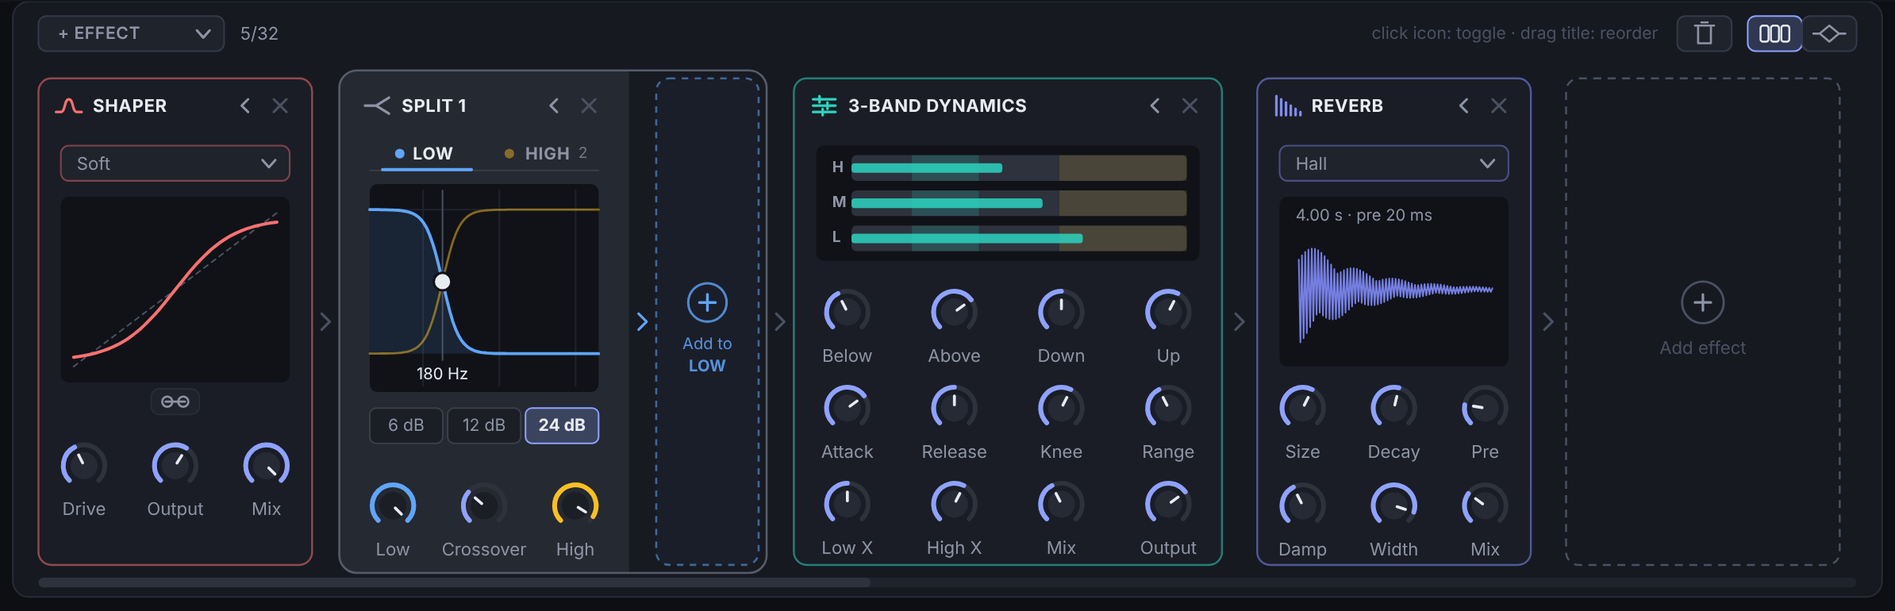
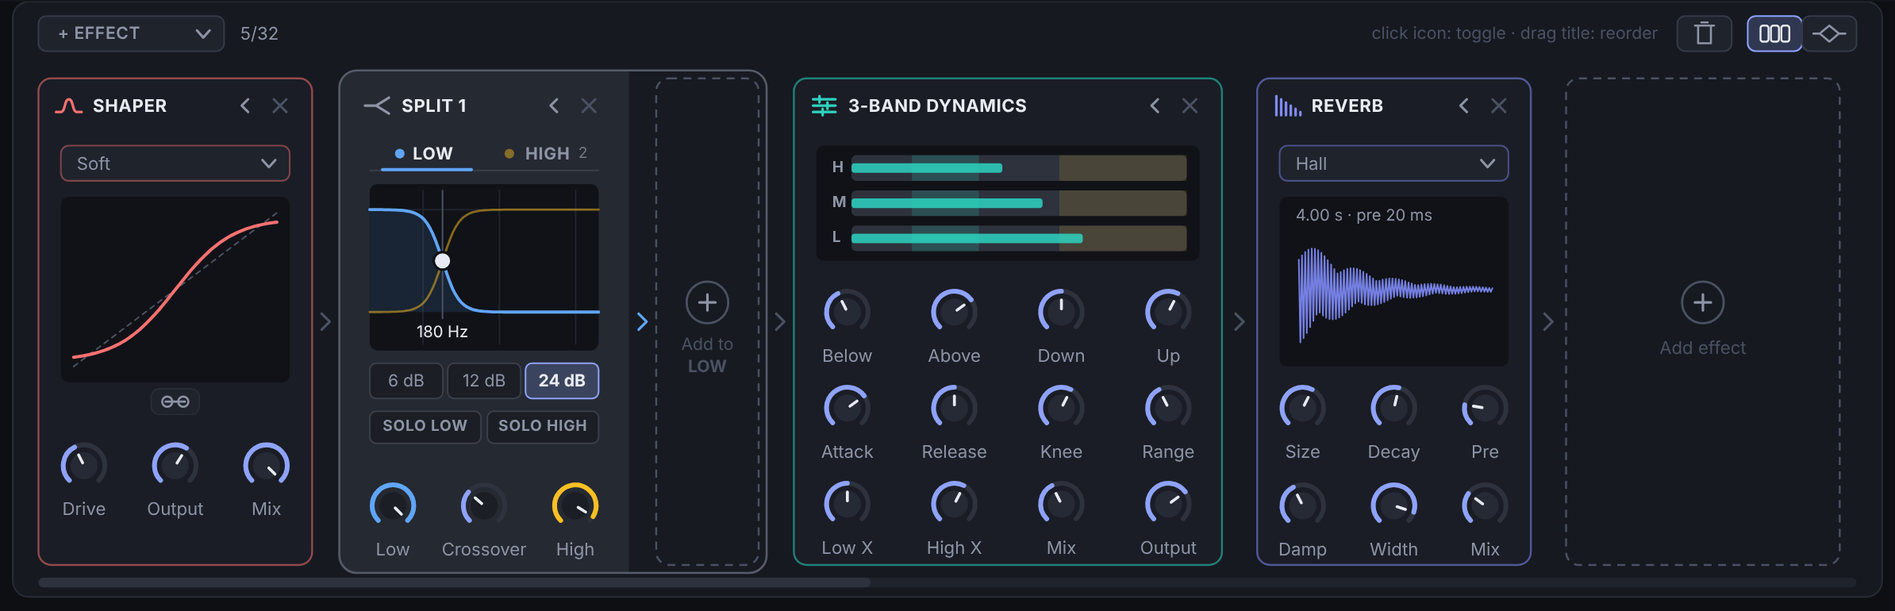
Split container drafts: solo buttons, a shared split card, a neutral placeholder
Add SOLO LOW | SOLO HIGH under the slope, with a shorter crossover
display to make room, and an S on a soloed band's tab. Show the same
controls as one card in the graph view when a split or its join is
picked, replacing PR #37's split and join cards. Draw the add
placeholder in the add-effect card's neutral grey.

Claude-Session: https://claude.ai/code/session_012YakMWtkYBtijGb8HJ8dkx

Changed region(s): [[0.1859, 0.3429, 0.4028, 0.7481], [0.3409, 0.4675, 0.4028, 0.5299], [0.3719, 0.1247, 0.4028, 0.1558]]

diff --git a/docs/drafts/fx-split-chain/index.html b/docs/drafts/fx-split-chain/index.html
@@ -66,7 +66,7 @@ ul.dense li::marker { color: var(--ink-dim); }
   <header>
     <span class="eyebrow">FMVibe · FX view · UI drafts · builds on PR #37</span>
     <h1>The frequency split as a container card in the chain: <span class="lo">low</span> / <span class="hi">high</span></h1>
-    <p class="lede">In the chain view, a split from the effects graph shows as one card that holds its bands. A grey column at its left picks the band and sets the crossover and the two band levels. Beside it are the shown band's effect cards and a placeholder that adds an effect to that band. It shows the same data the graph shows, so switching between Chain and Graph keeps every split and join.</p>
+    <p class="lede">In the chain view, a split from the effects graph shows as one card that holds its bands. A grey column at its left picks the band, sets the crossover, solos a band and sets the two band levels. Beside it are the shown band's effect cards and a placeholder that adds an effect to that band. It shows the same data the graph shows, so switching between Chain and Graph keeps every split and join. In the graph view, picking a split or its join shows the same controls as a card of their own.</p>
   </header>
 
   <section id="look">
@@ -85,16 +85,17 @@ ul.dense li::marker { color: var(--ink-dim); }
     <div class="pair">
       <figure>
         <div class="shot tight" id="fig-anatomy"></div>
-        <figcaption><b>3 · The column, top to bottom</b>, as asked, under a title row the cards' titles line up with.</figcaption>
+        <figcaption><b>3 · The column, top to bottom</b>, as asked, under a title row the cards' titles line up with. Shown with the high band soloed.</figcaption>
       </figure>
       <ol class="marks">
         <li><div><h3>Title row (added in this draft)</h3><p>The split's icon, its name (<span class="tag">SPLIT 1</span>, numbered by line order as in the graph), fold and ×. Dragging it moves the whole split, with its bands and join, along the chain. The × removes the split and leaves its bands' effects on the main line, the high band's first, as the graph does. This row isn't in the spec: the container still needs a handle, a name and a way to be removed, and here it lines up with the cards' title rows.</p></div></li>
         <li><div><h3>Band tabs: LOW | HIGH</h3><p>Drawn like the operator page's ENVELOPE / UNISON / SCOPE tabs: names on a line, the shown tab's underline in its band's color (blue for low, amber for high, the graph's band colors). A tab whose band is hidden shows its effect count, faint. The wheel switches tabs, and so does holding a dragged card over a tab.</p></div></li>
-        <li><div><h3>Crossover display</h3><p>The split card's display from the graph view: both bands' responses with the shown band's curve filled, and a handle on the crossover that drags across it. A double-click resets it to 250 Hz.</p></div></li>
+        <li><div><h3>Crossover display</h3><p>Both bands' responses with the shown band's curve filled, and a handle on the crossover that drags across it. A double-click resets it to 250 Hz. It's 104 px tall, shorter than in PR #37's split card, to make room for the solos.</p></div></li>
         <li><div><h3>Slope: 6 | 12 | 24 dB</h3><p>The split card's segmented switch. The wheel steps along it.</p></div></li>
+        <li><div><h3>SOLO LOW | SOLO HIGH</h3><p>The join's solos, one at a time: soloing one band unsolos the other, and a click on the lit one unsolos it. A soloed button fills with its band's color, and its band's tab shows an S in that color, as the graph's join node does. That way a soloed band shows even while the other band's tab is picked.</p></div></li>
         <li><div><h3>Low · Crossover · High</h3><p>Low and High are the join's band levels (0 dB down to −60 dB, silence), so the chain view has no join card. Crossover is the split's knob. All three take modulation and right-click menus like any knob, and the MODS view still lists them as Split 1 Crossover, Join 1 Low and Join 1 High.</p></div></li>
         <li><div><h3>Grey column and outline</h3><p>A neutral grey: splits and joins are already grey in the graph, because they shape the line rather than the sound. The outline's corners are 11 px against the cards' 8, so the gap between them stays even.</p></div></li>
-        <li><div><h3>Add placeholder</h3><p>A narrow dashed card in the shown band's color. A click opens the list of effects (effects only: a split can't go inside a band), and the one picked goes at the band's end.</p></div></li>
+        <li><div><h3>Add placeholder</h3><p>A narrow dashed card in the same neutral grey as the chain's add-effect card. A click opens the list of effects (effects only: a split can't go inside a band), and the one picked goes at the band's end.</p></div></li>
       </ol>
     </div>
     <div class="tablewrap">
@@ -104,7 +105,9 @@ ul.dense li::marker { color: var(--ink-dim); }
           <tr><td>Card inside</td><td><code>171 × 304</code> px, top at <code>kFxTop</code></td><td>Unchanged from the chain, so inner and outer cards share the top, the bottom and the knob rows.</td></tr>
           <tr><td>Container outline</td><td>5 px outside the cards on every side: <code>kFxTop − 5</code> to the cards' bottom <code>+ 5</code></td><td>"Very slightly larger": it fits in the 22 px gap and above the scrollbar.</td></tr>
           <tr><td>Column</td><td>One card place: 171 px of controls plus the 5 px edge</td><td>The first inner card lands on the chain's grid of card places.</td></tr>
-          <tr><td>Placeholder</td><td><code>64 × 304</code> px</td><td>Narrower than the chain's dashed card, so an empty band costs little room.</td></tr>
+          <tr><td>Crossover display</td><td><code>143 × 104</code> px</td><td>Shorter than PR #37's split card's, leaving room for the solo row.</td></tr>
+          <tr><td>Solo row</td><td>Two buttons, <code>69.5 × 20</code> px, 4 px apart, 8 px under the slope</td><td>Left for low and right for high, like the tabs and the knobs.</td></tr>
+          <tr><td>Placeholder</td><td><code>64 × 304</code> px, the add-effect card's dashed <code>kFaint</code> outline</td><td>Narrower than the chain's dashed card, so an empty band costs little room.</td></tr>
           <tr><td>Column knobs</td><td>Centers at card <code>y + 267</code>, labels at <code>+ 293</code></td><td>The same row as the bottom knobs on the compressor, delay and reverb cards.</td></tr>
           <tr><td>Grey</td><td>Fill <code>#252931</code>, outline <code>#565C69</code> (Midnight)</td><td>New palette entries per theme, close to <code>kDim</code>, the split color, at low strength.</td></tr>
         </tbody>
@@ -113,25 +116,31 @@ ul.dense li::marker { color: var(--ink-dim); }
   </section>
 
   <section id="same-data">
-    <h2>One patch, two views</h2>
+    <h2>One patch, two views, one split card</h2>
     <div class="prose">
-      <p>Here is the patch from figures 1 and 2 in the graph view, as PR #37 draws it. Every part of the container maps to something in the graph, so switching views is only a change of drawing. Nothing gets flattened and nobody is asked to confirm, in either direction.</p>
+      <p>In the graph view, picking a split's node or its join's node shows one card at the right: the container's column on its own, with the same controls drawn by the same code. PR #37's separate split and join cards go away. The join's level bars, Low and High knobs and SOLO buttons are all part of this card now.</p>
+      <p>The card's band tabs set the same saved value the chain view's tabs do: which band the display fills and which band the chain shows. Picking a node on a band's row picks that band's tab too.</p>
     </div>
     <figure>
-      <div class="shot"><img src="graph-view-pr37.png" alt="PR #37's effects graph: IN, Shaper, Split 1 with Widener and Delay on the high band and an empty low band, Join 1, 3-Band Dynamics, OUT. The Split 1 card at the right shows the crossover at 180 Hz and 24 dB." width="1184" height="381"></div>
-      <figcaption><b>4 · The same data in Graph (PR #37's <code>docs/fx-graph.png</code>).</b> Its Split 1 card holds what the container's column holds, apart from the band levels, which are on Join 1's card here.</figcaption>
+      <div class="shot" id="fig-graph-split"></div>
+      <figcaption><b>4a · Graph view, Split 1 picked.</b> The patch from figures 1 and 2, as PR #37's graph lays it out, with the split's card at the right. It's grey like the container's column and the size of a usual card.</figcaption>
+    </figure>
+    <figure>
+      <div class="shot" id="fig-graph-join"></div>
+      <figcaption><b>4b · Graph view, Join 1 picked.</b> The same card: a split and its join are one thing in the chain view, and they share one card in the graph.</figcaption>
     </figure>
     <div class="tablewrap">
       <table>
         <thead><tr><th>Chain view</th><th>Graph view</th><th>Data (PR #37)</th></tr></thead>
         <tbody>
           <tr><td>The container card</td><td>A split node, its two band rows and its join node</td><td>The split's and the sum's <code>Used</code>; wires</td></tr>
-          <tr><td>Crossover display, Slope, Crossover knob</td><td>The split's card</td><td><code>SplitParam::Low</code>, <code>SplitParam::Slope</code></td></tr>
-          <tr><td>Low and High knobs</td><td>The join's card: its level bars and Low / High knobs</td><td>The levels of the join's two input wires (dB)</td></tr>
+          <tr><td>The container's grey column</td><td>The card of the split or the join picked: the same component</td><td>All of the rows below</td></tr>
+          <tr><td>Crossover display, Slope, Crossover knob</td><td>The same controls on the card</td><td><code>SplitParam::Low</code>, <code>SplitParam::Slope</code></td></tr>
+          <tr><td>SOLO LOW | SOLO HIGH</td><td>The same buttons; the join node's S badge</td><td><code>SumParam::SoloLow</code>, <code>SoloHigh</code></td></tr>
+          <tr><td>Low and High knobs</td><td>The same knobs on the card</td><td>The levels of the join's two input wires (dB)</td></tr>
           <tr><td>The cards in a band, in order</td><td>The nodes along that band's row</td><td>Wires from the split's band port through the effects into the join</td></tr>
           <tr><td>The cards before and after the container</td><td>The main line</td><td>Wires from IN to OUT</td></tr>
-          <tr><td>The band shown (the tab)</td><td>No equivalent (both rows always show)</td><td>Editor layout: one band per split, saved with the patch like the node picked</td></tr>
-          <tr><td>No control: see the open questions</td><td>The join's SOLO buttons</td><td><code>SumParam::SoloHigh</code>, <code>SoloLow</code></td></tr>
+          <tr><td>The band shown (the tab)</td><td>The card's tab: the band its display fills</td><td>Editor layout: one band per split, saved with the patch like the node picked</td></tr>
         </tbody>
       </table>
     </div>
@@ -176,6 +185,7 @@ ul.dense li::marker { color: var(--ink-dim); }
       <li><b>Chain or Graph becomes an editor layout field,</b> like the routing panel's Graph | Matrix, instead of an engine mode. The engine always runs the graph, so the switch has nothing to do. PR #37's 3 ms duck when switching and its prompt before flattening splits both go away. PR #37 isn't merged yet, so <code>GlobalParam::FxGraph</code> can become a layout field before it ships.</li>
       <li><b>The chain order params (33400 + place) are read only when loading:</b> a state or preset from before the graph becomes a main line of wires in that order, as PR #37 already does when it switches to the graph. After that the order lives only in the wires.</li>
       <li><b>The editor's rules make both views show everything the editor can build:</b> splits only on the main line, bands as straight lines of effects, and every split with its join. Wires aren't given to hosts, so only a hand-edited preset could break those rules. Loading such a preset should repair it, or let the graph view show it and keep it out of the chain view.</li>
+      <li><b>One component for the split's controls:</b> the chain view draws it as the container's column, and the graph view as the card of a split or join node picked. PR #37's split card and join card fold into it.</li>
       <li><b>The band shown is the only new state:</b> one value per split (four splits), saved in the editor layout chunk like the node picked.</li>
     </ul>
   </section>
@@ -183,10 +193,10 @@ ul.dense li::marker { color: var(--ink-dim); }
   <section id="questions">
     <h2>Open questions</h2>
     <div class="qs">
-      <div class="q"><h3>Solo</h3><p>The spec has no solo, and the graph's join card has one. If a band is soloed from the graph and the chain view shows nothing, the other band goes silent with no visible reason.</p><p class="pick">My recommendation: <b>at least mark a soloed band's tab with an S in its color</b>, and offer Solo on the tab's right-click menu.</p></div>
       <div class="q"><h3>Container width</h3><p>The width follows the shown band (as drafted), so the row stays compact and switching tabs moves the cards after it. The alternative sizes the container for the longer band: nothing moves, but a short band leaves empty space.</p><p class="pick">My recommendation: <b>follow the shown band</b>, with the glide the row already has.</p></div>
       <div class="q"><h3>Title row</h3><p>The spec starts the column at the band tabs. This draft adds a title row above them for dragging, removing and naming the container. The alternative is a label set into the top edge of the outline.</p><p class="pick">My recommendation: <b>keep the title row</b>, because it lines up with the cards' titles.</p></div>
       <div class="q"><h3>Which band a new split shows</h3><p>LOW, the first tab, is drafted. The graph puts the high band first when it flattens.</p><p class="pick">My recommendation: <b>LOW</b>, then the band last picked, saved per split.</p></div>
+      <div class="q"><h3>Band tabs on the graph's card</h3><p>The graph shows both band rows at once, so on its card the tabs only pick which curve is filled (and which band the chain shows). They could be hidden in the graph view, at the cost of the card no longer being exactly the same.</p><p class="pick">My recommendation: <b>keep them</b>, and light the picked band's row label in the graph, so the card stays one component.</p></div>
     </div>
   </section>
 </main>
@@ -382,8 +392,54 @@ function crossoverDisplay(x, y, w, h, fc, slope, band) {
   return s;
 }
 
-// The split's container: the outline, the grey column (title, band tabs, crossover, slope, knobs), the shown band's
-// cards and the placeholder. Returns its markup and its right edge.
+// The split's controls, one card's worth: title, band tabs, crossover, slope, solos and knobs. The chain view draws
+// them as its container's grey column; the graph view as the card of a split or join node picked.
+function splitControls(px, o) {
+  const band = o.band;
+  let s = '';
+  s += icon('split', px + 10, Y0 + 10, C.dim);
+  s += T(px + 34, Y0 + 17, o.name || 'SPLIT 1', { size: 11, weight: 700, ls: 0.3 });
+  s += chevronLeft(px + CARD_W - 42, Y0 + 17, C.dim) + cross(px + CARD_W - 20, Y0 + 17, C.faint);
+  // Band tabs.
+  const ty = Y0 + 38, th = 20, tx = px + 14, tw = 143;
+  s += L(tx, ty + th - 0.5, tx + tw, ty + th - 0.5, C.greyRule, 1);
+  [['low', 'LOW'], ['high', 'HIGH']].forEach(([b, name], i) => {
+    const x0 = tx + i * tw / 2, mid = x0 + tw / 4, sel = b === band, n = (o.counts || {})[b] || 0;
+    s += Ci(mid - (b === 'low' ? 17 : 20), ty + 9, 3, { fill: BAND[b], fop: sel ? 1 : 0.45 });
+    s += T(mid + 4, ty + 9, name, { size: 10.5, weight: 700, fill: sel ? C.text : C.dim, anchor: 'middle', ls: 0.4 });
+    if (o.solo === b) { // a soloed band's tab: an S in its color, as the graph's join node shows
+      const sx = mid + (b === 'low' ? 24 : 28);
+      s += Ci(sx, ty + 9, 6, { fill: BAND[b] }) + T(sx, ty + 9.5, 'S', { size: 8.5, weight: 700, fill: '#0b0d11', anchor: 'middle' });
+    } else if (!sel && n) s += T(mid + (b === 'low' ? 22 : 26), ty + 9, String(n), { size: 9.5, fill: C.dim, op: 0.75, anchor: 'middle' });
+    if (sel) s += L(x0 + 8, ty + th - 1, x0 + tw / 2 - 8, ty + th - 1, BAND[b], 2);
+  });
+  // Crossover display (shorter than PR #37's split card's, for the solos), slope, solos, knobs.
+  s += crossoverDisplay(px + 14, Y0 + 66, tw, 104, o.fc || 180, o.slope ?? 2, band);
+  const sy = Y0 + 178, sw = (tw - 6) / 3;
+  ['6 dB', '12 dB', '24 dB'].forEach((t, i) => {
+    const sel = i === (o.slope ?? 2), x0 = tx + i * (sw + 3);
+    s += R(x0, sy, sw, 22, { r: 4, fill: sel ? C.accent : C.greyInset, fop: sel ? 0.22 : 1, stroke: sel ? C.accent : C.greyRule, sw: 1 });
+    s += T(x0 + sw / 2, sy + 11, t, { size: 10.5, fill: sel ? C.text : C.dim, weight: sel ? 700 : 400, anchor: 'middle' });
+  });
+  const oy = Y0 + 208, ow = (tw - 4) / 2;
+  [['low', 'SOLO LOW'], ['high', 'SOLO HIGH']].forEach(([b, t], i) => {
+    const on = o.solo === b, x0 = tx + i * (ow + 4);
+    s += R(x0, oy, ow, 20, { r: 4, fill: on ? BAND[b] : C.greyInset, fop: on ? 0.22 : 1, stroke: on ? BAND[b] : C.greyRule, sw: 1 });
+    s += T(x0 + ow / 2, oy + 10, t, { size: 9.5, weight: 700, fill: on ? C.text : C.dim, anchor: 'middle', ls: 0.4 });
+  });
+  const kv = db => 1 + db / 60;
+  s += knob(third(px, CARD_W, 0), Y0 + 267, 'Low', kv(o.lowDb ?? 0), BAND.low, { body: C.greyInset });
+  s += knob(third(px, CARD_W, 1), Y0 + 267, 'Crossover', Math.log((o.fc || 180) / 20) / Math.log(1000), C.accent, { body: C.greyInset });
+  s += knob(third(px, CARD_W, 2), Y0 + 267, 'High', kv(o.highDb ?? -3), BAND.high, { body: C.greyInset });
+  return s;
+}
+// The same controls as a card of their own, grey, for the graph view.
+function splitCard(px, o) {
+  return R(px, Y0, CARD_W, CARD_H, { r: 8, fill: C.grey, stroke: C.greyLine, sw: 1.3 }) + splitControls(px, o);
+}
+
+// The split's container: the outline, the grey column, the shown band's cards and the placeholder (neutral, like the
+// chain's add card). Returns its markup and its right edge.
 function splitContainer(px, o) {
   const band = o.band, col = BAND[band];
   const cards = o.cards || [];
@@ -396,66 +452,40 @@ function splitContainer(px, o) {
   s += R(ox, oy, ow, oh, { r: rad, fill: '#171A21' });
   s += P(`M${ox + rad} ${oy} H${colR} V${oy + oh} H${ox + rad} A${rad} ${rad} 0 0 1 ${ox} ${oy + oh - rad} V${oy + rad} A${rad} ${rad} 0 0 1 ${ox + rad} ${oy} Z`, { fill: C.grey });
   s += R(ox, oy, ow, oh, { r: rad, stroke: C.greyLine, sw: 1.3 });
-  // Title row.
-  s += icon('split', px + 10, Y0 + 10, C.dim);
-  s += T(px + 34, Y0 + 17, o.name || 'SPLIT 1', { size: 11, weight: 700, ls: 0.3 });
-  s += chevronLeft(px + CARD_W - 42, Y0 + 17, C.dim) + cross(px + CARD_W - 20, Y0 + 17, C.faint);
-  // Band tabs.
-  const ty = Y0 + 38, th = 20, tx = px + 14, tw = 143;
-  s += L(tx, ty + th - 0.5, tx + tw, ty + th - 0.5, C.greyRule, 1);
-  [['low', 'LOW'], ['high', 'HIGH']].forEach(([b, name], i) => {
-    const x0 = tx + i * tw / 2, mid = x0 + tw / 4, sel = b === band, n = (o.counts || {})[b] || 0;
-    const label = T(mid + 4, ty + 9, name, { size: 10.5, weight: 700, fill: sel || o.hoverTab === b ? C.text : C.dim, anchor: 'middle', ls: 0.4 });
-    s += Ci(mid - (b === 'low' ? 17 : 20), ty + 9, 3, { fill: BAND[b], fop: sel ? 1 : 0.45 });
-    s += label;
-    if (!sel && n) s += T(mid + (b === 'low' ? 22 : 26), ty + 9, String(n), { size: 9.5, fill: C.dim, op: 0.75, anchor: 'middle' });
-    if (sel) s += L(x0 + 8, ty + th - 1, x0 + tw / 2 - 8, ty + th - 1, BAND[b], 2);
-    if (o.hoverTab === b) s += R(x0 + 4, ty - 2, tw / 2 - 8, th + 2, { r: 4, fill: BAND[b], fop: 0.12 });
-  });
-  // Crossover display, slope, knobs.
-  s += crossoverDisplay(px + 14, Y0 + 66, tw, 130, o.fc || 180, o.slope ?? 2, band);
-  const sy = Y0 + 206, sw = (tw - 6) / 3;
-  ['6 dB', '12 dB', '24 dB'].forEach((t, i) => {
-    const sel = i === (o.slope ?? 2), x0 = tx + i * (sw + 3);
-    s += R(x0, sy, sw, 22, { r: 4, fill: sel ? C.accent : C.greyInset, fop: sel ? 0.22 : 1, stroke: sel ? C.accent : C.greyRule, sw: 1 });
-    s += T(x0 + sw / 2, sy + 11, t, { size: 10.5, fill: sel ? C.text : C.dim, weight: sel ? 700 : 400, anchor: 'middle' });
-  });
-  const kv = db => 1 + db / 60;
-  s += knob(third(px, CARD_W, 0), Y0 + 267, 'Low', kv(o.lowDb ?? 0), BAND.low, { body: C.greyInset });
-  s += knob(third(px, CARD_W, 1), Y0 + 267, 'Crossover', Math.log((o.fc || 180) / 20) / Math.log(1000), C.accent, { body: C.greyInset });
-  s += knob(third(px, CARD_W, 2), Y0 + 267, 'High', kv(o.highDb ?? -3), BAND.high, { body: C.greyInset });
-  if (o.tooltip) s += o.tooltip;
+  s += splitControls(px, o);
   // Arrows and the band's cards.
   s += arrow(colR + (px + PLACE - colR) / 2, col);
-  placed.forEach((cd, i) => {
+  placed.forEach(cd => {
     if (cd.drop) s += R(cd.x, Y0, cd.w, CARD_H, { r: 8, stroke: col, sw: 1.5, dash: '2 4', fill: col, fop: 0.05 });
     else s += card(cd.x, cd.type, cd.title, cd.w);
     s += arrow(cd.x + cd.w + GAP / 2);
   });
   // Placeholder.
-  const hov = o.placeholderHover;
-  s += R(phX, Y0, phW, CARD_H, { r: 8, stroke: col, sw: 1.3, sop: hov ? 0.95 : 0.55, dash: '4 4', fill: col, fop: hov ? 0.12 : 0.04 });
-  s += Ci(phX + phW / 2, Y0 + 140, 12, { stroke: col, sw: 1.5, sop: hov ? 1 : 0.8, fill: hov ? col : 'none', fop: 0.2 });
-  s += P(`M${phX + phW / 2 - 5} ${Y0 + 140} h10 M${phX + phW / 2} ${Y0 + 135} v10`, { stroke: col, sw: 1.7 });
-  s += T(phX + phW / 2, Y0 + 166, 'Add to', { size: 10, fill: col, anchor: 'middle', op: 0.85 });
-  s += T(phX + phW / 2, Y0 + 180, band.toUpperCase(), { size: 10, fill: col, anchor: 'middle', weight: 700, op: 0.85 });
+  const hov = o.placeholderHover, pcx = phX + phW / 2;
+  s += R(phX, Y0, phW, CARD_H, { r: 8, stroke: hov ? C.dim : C.faint, sw: 1.2, dash: '5 4', fill: C.text, fop: hov ? 0.05 : 0 });
+  s += Ci(pcx, Y0 + 140, 13, { stroke: hov ? C.dim : C.faint, sw: 1.4 });
+  s += P(`M${pcx - 5} ${Y0 + 140} h10 M${pcx} ${Y0 + 135} v10`, { stroke: hov ? C.text : C.dim, sw: 1.6 });
+  s += T(pcx, Y0 + 166, 'Add to', { size: 10.5, fill: hov ? C.dim : C.faint, anchor: 'middle' });
+  s += T(pcx, Y0 + 180, band.toUpperCase(), { size: 10.5, fill: hov ? C.dim : C.faint, anchor: 'middle', weight: 700 });
   return { svg: s, right, phX, phW };
 }
 
 // The FX panel around a row of cards, with its top row (+ EFFECT, the count, the hint, the bin and Chain | Graph).
-function panel(id, content, count, extra = '', viewBox = '0 0 1184 381') {
+function panel(id, content, count, extra = '', viewBox = '0 0 1184 381', graph = false) {
   let s = `<svg xmlns="http://www.w3.org/2000/svg" viewBox="${viewBox}" role="img" aria-label="FX chain mockup" font-family="'Segoe UI','Noto Sans',system-ui,sans-serif">`;
   s += `<defs><clipPath id="${id}-clip"><rect x="16" y="20" width="1152" height="350"/></clipPath></defs>`;
   s += R(0, 0, 1184, 381, { fill: C.bg }) + R(8, 0, 1168, 372, { r: 10, fill: C.panel, stroke: C.border });
   s += R(24, 9, 116, 22, { r: 5, fill: C.raised, stroke: '#343A47' }) + T(36, 20, '+ EFFECT', { size: 10.5, weight: 600, fill: C.dim, ls: 0.3 }) + chevronDown(127, 20, C.dim);
   s += T(150, 20, count, { size: 11, fill: C.dim });
-  s += T(1036, 20, 'click icon: toggle  ·  drag title: reorder', { size: 10.5, fill: C.faint, anchor: 'end' });
+  if (!graph) s += T(1036, 20, 'click icon: toggle  ·  drag title: reorder', { size: 10.5, fill: C.faint, anchor: 'end' });
   s += R(1048, 9, 34, 22, { r: 5, fill: C.raised, stroke: '#343A47' }) + P('M1059 15 h12 M1061 15 v11 h8 v-11 M1063 13 h4', { stroke: C.dim, sw: 1.3 });
-  s += R(1092, 9, 34, 22, { r: 5, fill: C.accent, fop: 0.22, stroke: C.accent }) + R(1126, 9, 34, 22, { r: 5, fill: C.raised, stroke: '#343A47' });
-  s += R(1100, 15, 5, 10, { r: 1.5, stroke: C.text, sw: 1.2 }) + R(1106.5, 15, 5, 10, { r: 1.5, stroke: C.text, sw: 1.2 }) + R(1113, 15, 5, 10, { r: 1.5, stroke: C.text, sw: 1.2 });
-  s += P('M1133 20 h4 l6 -5 l6 5 h4 M1137 20 l6 5 l6 -5', { stroke: C.dim, sw: 1.3 });
+  const on = { r: 5, fill: C.accent, fop: 0.22, stroke: C.accent }, off = { r: 5, fill: C.raised, stroke: '#343A47' };
+  s += R(1092, 9, 34, 22, graph ? off : on) + R(1126, 9, 34, 22, graph ? on : off);
+  const chainInk = graph ? C.dim : C.text, graphInk = graph ? C.text : C.dim;
+  s += R(1100, 15, 5, 10, { r: 1.5, stroke: chainInk, sw: 1.2 }) + R(1106.5, 15, 5, 10, { r: 1.5, stroke: chainInk, sw: 1.2 }) + R(1113, 15, 5, 10, { r: 1.5, stroke: chainInk, sw: 1.2 });
+  s += P('M1133 20 h4 l6 -5 l6 5 h4 M1137 20 l6 5 l6 -5', { stroke: graphInk, sw: 1.3 });
   s += `<g clip-path="url(#${id}-clip)">${content}</g>`;
-  s += R(24, 360, 1136, 6, { r: 3, fill: C.raised }) + R(24, 360, 520, 6, { r: 3, fill: C.track });
+  if (!graph) s += R(24, 360, 1136, 6, { r: 3, fill: C.raised }) + R(24, 360, 520, 6, { r: 3, fill: C.track });
   s += extra + '</svg>';
   document.getElementById(id).innerHTML = s;
 }
@@ -500,21 +530,56 @@ function hand(x, y) { // a closed hand for a drag
   row += arrow(md + mdw + GAP + CARD_W + 11) + addCard(md + mdw + 2 * GAP + CARD_W);
   panel('fig-low', row, '5/32');
 }
+// 4. The graph view: the split or the join picked shows the same controls as a card.
+function graphView(id, picked) {
+  const g = { split: [243, 200], join: [518, 200] };
+  let s = R(24, 50, 852, 302, { r: 8, fill: '#111318' });
+  for (let cx = 0; cx < 9; cx++) for (let ry = 0; ry < 3; ry++) s += Ci(62 + cx * 92, 130 + ry * 70, 0.9, { fill: C.faint });
+  const head = (x, y, c) => P(`M${x - 7} ${y - 4} L${x} ${y} L${x - 7} ${y + 4} Z`, { fill: c });
+  const wire = (x0, y0, x1, y1, c) => P(`M${x0} ${y0} C${(x0 + x1) / 2} ${y0} ${(x0 + x1) / 2} ${y1} ${x1} ${y1}`, { stroke: c, sw: 1.6 }) + head(x1, y1, c);
+  const node = (cx, cy, type, name) => Ci(cx, cy, 22, { fill: C.card, stroke: FX[type], sw: 1.6 }) + icon(type, cx - 9, cy - 7, FX[type])
+    + T(cx, cy + 34, name, { size: 9.5, weight: 700, fill: C.dim, anchor: 'middle', ls: 0.3 });
+  const box = (x, y, w, h, label) => R(x, y, w, h, { r: 6, fill: C.raised, stroke: C.border }) + T(x + w / 2, y + h / 2, label, { size: 10, weight: 700, fill: C.dim, anchor: 'middle' });
+  const plus = (cx, cy) => Ci(cx, cy, 8, { fill: '#111318', stroke: C.accent, sw: 1.3 }) + P(`M${cx - 4} ${cy} h8 M${cx} ${cy - 4} v8`, { stroke: C.text, sw: 1.4 });
+  const sj = (key, mirror, name) => {
+    const [cx, cy] = g[key], sel = picked === key;
+    let t = '';
+    if (sel) t += R(cx - 22, cy - 29, 44, 58, { r: 9, fill: C.dim, fop: 0.18, stroke: C.dim, sw: 1.5 });
+    t += R(cx - 17, cy - 24, 34, 48, { r: 6, fill: '#2A2F38', stroke: C.dim, sw: 1.3 });
+    t += `<g transform="translate(${cx} ${cy}) scale(${mirror ? -1 : 1} 1) translate(-9 -7)">${P(ICONS.split, { stroke: C.text, sw: 1.6 })}</g>`;
+    return t + T(cx, cy + 38, name, { size: 9.5, weight: 700, fill: sel ? C.text : C.dim, anchor: 'middle', ls: 0.3 });
+  };
+  s += box(42, 171, 32, 58, 'IN') + box(778, 171, 32, 58, 'OUT');
+  s += wire(74, 200, 128, 200, C.dim) + wire(172, 200, 226, 200, FX.shaper);
+  s += wire(260, 188, 312, 130, C.dim) + wire(356, 130, 404, 130, FX.widener) + wire(448, 130, 501, 190, FX.delay);
+  s += P('M260 212 C297 212 297 268 326 268', { stroke: C.dim, sw: 1.6 }) + wire(342, 268, 501, 210, C.dim);
+  s += wire(535, 200, 588, 200, C.dim) + P('M632 200 H694', { stroke: FX.multidyn, sw: 1.6 }) + wire(710, 200, 778, 200, FX.multidyn);
+  s += node(150, 200, 'shaper', 'SHAPER') + node(334, 130, 'widener', 'WIDENER') + node(426, 130, 'delay', 'DELAY') + node(610, 200, 'multidyn', '3-BAND DYNAMICS');
+  s += plus(334, 268) + plus(702, 200);
+  s += sj('split', false, 'SPLIT 1') + sj('join', true, 'JOIN 1');
+  s += T(275, 92, 'High', { size: 10, weight: 700, fill: BAND.high }) + T(275, 320, 'Low', { size: 10, weight: 700, fill: BAND.low, op: 0.7 });
+  s += splitCard(941, { band: 'high', counts: { low: 0, high: 2 } });
+  panel(id, s, '4/32', '', '0 0 1184 381', true);
+}
+graphView('fig-graph-split', 'split');
+graphView('fig-graph-join', 'join');
+
 // 3. Anatomy: the container of figure 1, closer, with its parts marked.
 {
   const px = placeX(1);
-  const sc = splitContainer(px, { band: 'high', counts: { low: 0, high: 2 }, cards: [{ type: 'widener', title: 'WIDENER' }] });
+  const sc = splitContainer(px, { band: 'high', counts: { low: 0, high: 2 }, cards: [{ type: 'widener', title: 'WIDENER' }], solo: 'high' });
   const bx = px - 44;
   const mark = (n, x, y, ty) => L(x, y, bx + 10, ty, C.note, 1.2) + Ci(x, y, 2.5, { fill: C.note }) + Ci(bx, ty, 10, { fill: C.note }) + T(bx, ty + 0.5, String(n), { size: 11, weight: 700, fill: '#0b0d11', anchor: 'middle' });
   let marks = '';
   marks += mark(1, px + 8, Y0 + 17, Y0 + 17);
   marks += mark(2, px + 14, Y0 + 48, Y0 + 52);
-  marks += mark(3, px + 14, Y0 + 130, Y0 + 130);
-  marks += mark(4, px + 14, Y0 + 217, Y0 + 217);
-  marks += mark(5, px + 18, Y0 + 267, Y0 + 262);
-  marks += mark(6, px - 5, Y0 + 290, Y0 + 296);
+  marks += mark(3, px + 14, Y0 + 118, Y0 + 118);
+  marks += mark(4, px + 14, Y0 + 189, Y0 + 184);
+  marks += mark(5, px + 14, Y0 + 218, Y0 + 218);
+  marks += mark(6, px + 18, Y0 + 267, Y0 + 256);
+  marks += mark(7, px - 5, Y0 + 290, Y0 + 294);
   marks += L(sc.phX + sc.phW / 2, Y0 + 196, sc.phX + sc.phW / 2, Y0 + 228, C.note, 1.2) + Ci(sc.phX + sc.phW / 2, Y0 + 196, 2.5, { fill: C.note })
-    + Ci(sc.phX + sc.phW / 2, Y0 + 238, 10, { fill: C.note }) + T(sc.phX + sc.phW / 2, Y0 + 238.5, '7', { size: 11, weight: 700, fill: '#0b0d11', anchor: 'middle' });
+    + Ci(sc.phX + sc.phW / 2, Y0 + 238, 10, { fill: C.note }) + T(sc.phX + sc.phW / 2, Y0 + 238.5, '8', { size: 11, weight: 700, fill: '#0b0d11', anchor: 'middle' });
   // The 5 px the outline stands off the cards.
   const dimX = sc.right + 14;
   marks += L(sc.right - 4, Y0 - 5, dimX + 4, Y0 - 5, C.note, 1, { dash: '2 2' }) + L(sc.phX + sc.phW, Y0, dimX + 4, Y0, C.note, 1, { dash: '2 2' });

diff --git a/docs/drafts/fx-split-chain/README.md b/docs/drafts/fx-split-chain/README.md
@@ -9,7 +9,8 @@ an implementation note (one data model, two views) and open questions. The PNGs 
 | ![](1-high-band.png) | 1. The high band shown |
 | ![](2-low-band.png) | 2. The low band shown (empty) |
 | ![](3-anatomy.png) | 3. Anatomy of the container |
-| ![](graph-view-pr37.png) | 4. The same patch in PR #37's graph view |
+| ![](4a-graph-split-picked.png) | 4a. Graph view, the split picked: the same controls as a card |
+| ![](4b-graph-join-picked.png) | 4b. Graph view, the join picked: the same card |
 | ![](5-add-split.png) | 5. Adding a split from the chain |
 | ![](6-add-to-band.png) | 6. Adding an effect to a band |
 | ![](7-drag-into-band.png) | 7. Dragging a card into a band |
